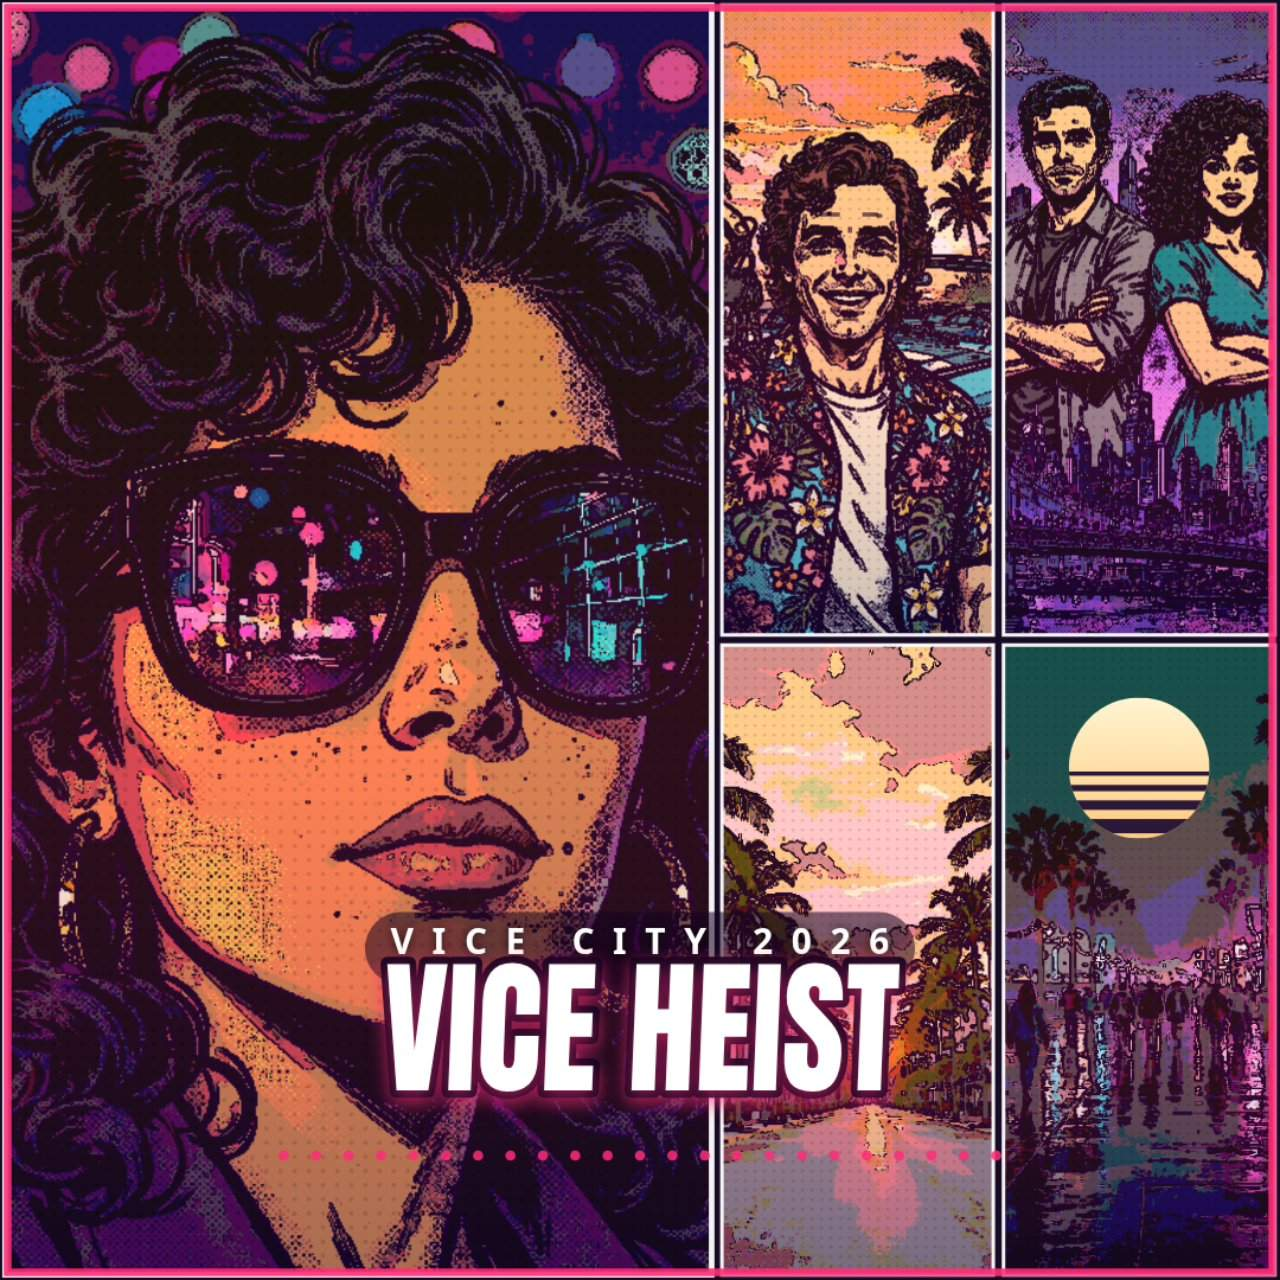
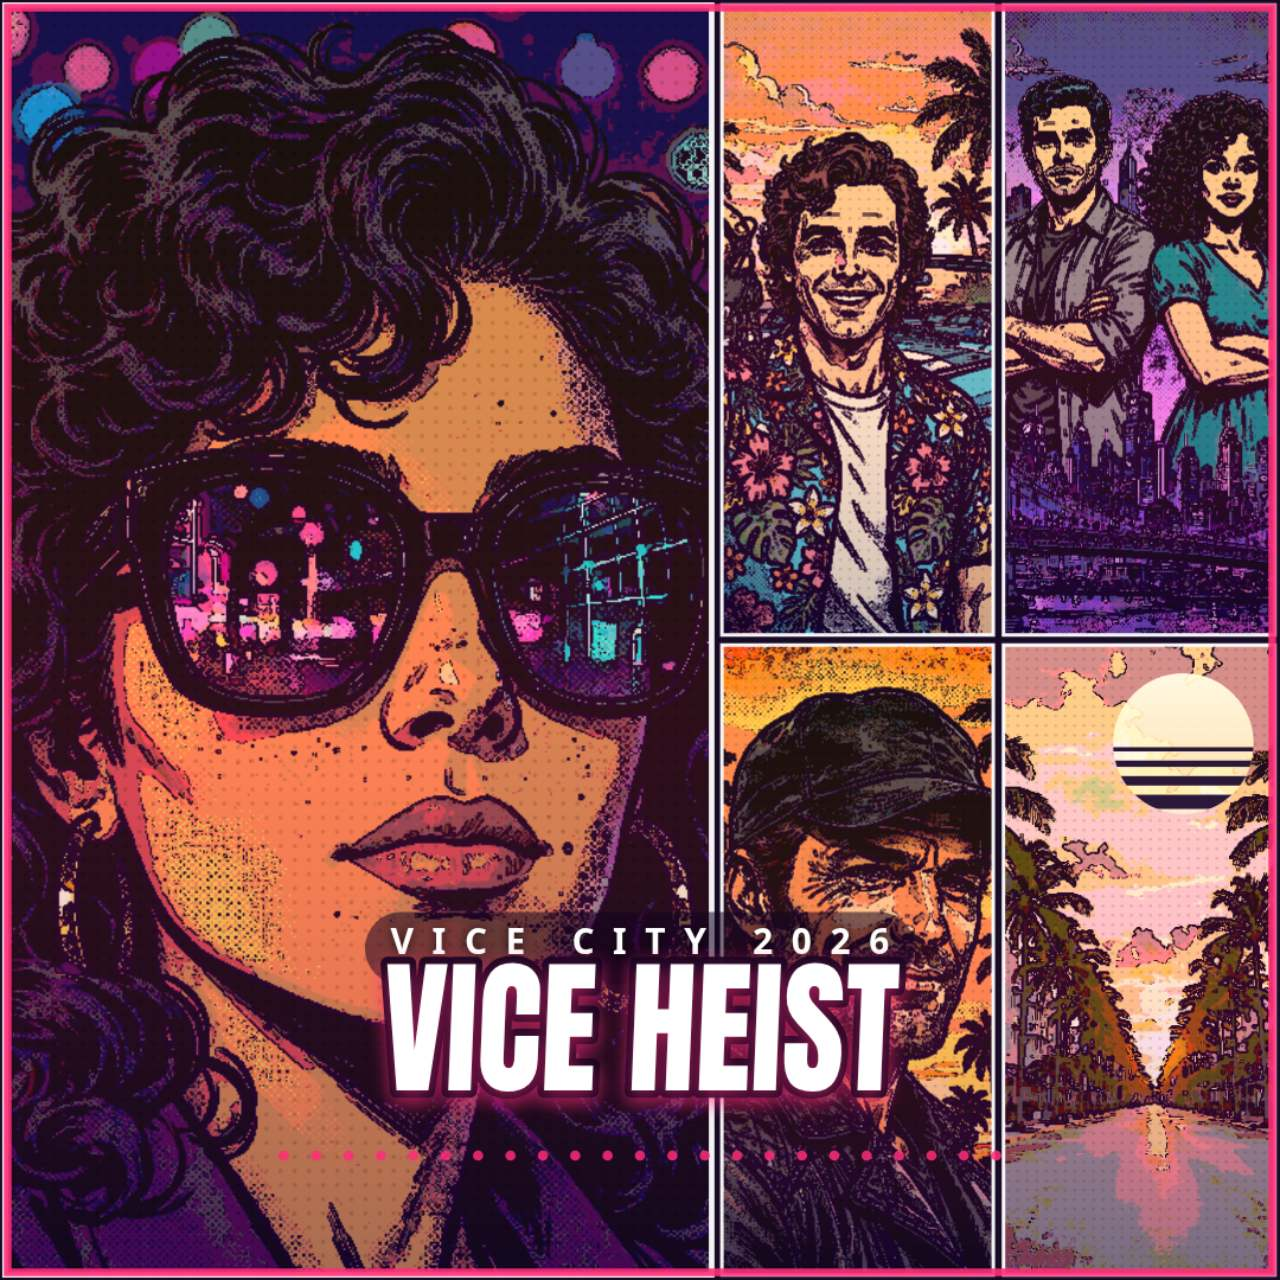
VICE PANELS v5: 2 more comic-ink characters (ink-leather, ink-blonde), character-led nine, scene-aware sun that never covers a face, 13 samples

Changed region(s): [[0.5625, 0.5, 1.0, 1.0]]

diff --git a/app/src/cover.js b/app/src/cover.js
@@ -1,4 +1,4 @@
-// Draws a multi-panel Vice City style cover onto a canvas. v4.
+// Draws a multi-panel Vice City style cover onto a canvas. v5.
 // Own design: seven panel layouts (incl. a Character Hero with one big
 // character panel and a 3x3 nine-panel grid), eight colour grades (incl. a
 // gradient-map Heatwave, a Poster Ink comic shader, a split-tone grade and a
@@ -7,8 +7,11 @@
 // halftone title dots and a condensed poster-block title in the bundled
 // Anton font (SIL OFL, app/fonts/) with auto-fit, and a bold gradient
 // caption. No Rockstar art, logo or font. Panels never repeat a photo
-// while enough distinct photos are loaded: with eleven photos every
-// nine-panel cover shows nine different shots.
+// while enough distinct photos are loaded: with thirteen photos every
+// nine-panel cover shows nine different shots — and the sample order is
+// character-led, so at least six of the nine panels are characters
+// (five comic ink plus the beach couple) and a scene sits where the
+// striped sun can live without covering a face.
 
 export const GRADES = {
   sunset: { name: 'Vice Sunset', filter: 'saturate(1.25) contrast(1.06)', top: 'rgba(255,122,26,0.10)', mid: 'rgba(255,45,120,0.28)', low: 'rgba(120,10,90,0.42)', sun: '#ffd166', sunCore: '#fff3c4', frame: '#ff5da2' },
@@ -192,28 +195,36 @@ function drawPhotoInPanel(ctx, photo, px, py, pw, ph, slant, adjust, grade) {
   ctx.restore();
 }
 
-function drawSun(ctx, w, h, grade, layout) {
+// Names of the sample photos that are scenes (sky, streets, sea), as
+// opposed to character portraits. A panel counts as a scene panel only if
+// its photo's file name is one of these: a user's own upload has an
+// unknown name and is treated as a face until proven otherwise.
+const SCENE_NAMES = new Set(['sunset-boulevard', 'neon-boardwalk', 'skyline-night', 'classic-car', 'marina-dawn', 'pier', 'boulevard']);
+
+function drawSun(ctx, w, h, grade, shapes, ordered) {
   // Retro striped sun: a gradient disc with horizontal gaps cut out of its
-  // lower half. Where it goes depends on the layout: the character portraits
-  // are face-centred and can fill a whole panel, so a fixed corner kept
-  // landing on a face (top-right covered the duo's faces, top-left covered
-  // the neon queen's eye in the nine-panel). Each position below sits in
-  // the corner of a panel that holds a scene photo in the sample set:
-  // charhero/quad/angled5 use the bottom-right scene panel's top-right
-  // corner, nine uses the skyline panel's top-right corner, hero/split use
-  // the top-left corner of the wide top panel (face centred, corner is
-  // sky). Trio has a face in every panel, so it gets no sun at all.
-  const spots = {
-    charhero: [0.89, 0.60],
-    nine: [0.89, 0.39],
-    quad: [0.89, 0.60],
-    angled5: [0.89, 0.60],
-    hero: [0.11, 0.10],
-    split: [0.89, 0.10],
-  };
-  const spot = spots[layout];
-  if (!spot) return;
-  const cx = w * spot[0], cy = h * spot[1], r = h * 0.055;
+  // lower half. Where it goes is decided from the photos actually on the
+  // cover, never from a fixed corner: fixed corners kept landing on faces
+  // once the sample order became character-led — the nine-panel's
+  // top-right panel is a beach portrait now, and Character Hero's last
+  // small panel is one too, so both old spots put the sun on a man's
+  // face. The sun now sits in the top-right corner of the topmost scene
+  // panel (rightmost on a tie), in sky, never on a face; a cover whose
+  // panels are all portraits simply has no sun.
+  const gutter = Math.max(4, w * 0.008);
+  let best = null;
+  shapes.forEach((s, i) => {
+    const name = (ordered[i]?.name || '').replace(/\.(jpe?g|png)$/i, '');
+    if (!SCENE_NAMES.has(name)) return;
+    const score = s.y * 100 - s.x; // topmost wins, rightmost breaks ties
+    if (!best || score < best.score) best = { s, score };
+  });
+  if (!best) return;
+  const { s } = best;
+  const px = s.x * w + gutter / 2, py = s.y * h + gutter / 2;
+  const pw = s.w * w - gutter;
+  const r = h * 0.055;
+  const cx = px + pw - r * 1.3, cy = py + r * 1.4;
   ctx.save();
   ctx.globalCompositeOperation = 'screen';
   ctx.beginPath();
@@ -363,26 +374,28 @@ export function drawCover(canvas, state, W, H) {
 // file name with its ink/neon prefix and keys/skyline suffix stripped, and
 // a user's own upload keys on its full file name. The Character Hero's big
 // panel wants a portrait (a face); its last small panel wants a landscape
-// scene, so the striped sun sitting in that panel's corner has sky, never
-// a face. The Hero's wide top panel wants a landscape shot — a portrait in
+// shot. The items returned carry their file names too, so drawSun can tell
+// a scene panel from a character panel — only a scene panel ever gets the
+// sun. The Hero's wide top panel wants a landscape shot — a portrait in
 // a wide slot crops to a nose-and-sunglasses close-up.
 function orderPhotos(photos, names, layout) {
   const n = panelShapes(layout).length;
+  const baseOf = (i) => (names?.[i] || '').replace(/\.jpe?g$/i, '').replace(/\.png$/i, '');
   const keyOf = (i) => {
-    const base = (names?.[i] || '').replace(/\.jpe?g$/i, '').replace(/\.png$/i, '');
+    const base = baseOf(i);
     if (!base) return `photo${i}`;
     return base.replace(/^(ink|neon)-/, '').replace(/-(keys|skyline)$/, '');
   };
   const items = photos
-    .map((p, i) => (p ? { p, key: keyOf(i), portrait: p.naturalWidth < p.naturalHeight } : null))
+    .map((p, i) => (p ? { p, name: baseOf(i), key: keyOf(i), portrait: p.naturalWidth < p.naturalHeight } : null))
     .filter(Boolean);
-  const all = items.map((x) => x.p);
+  const all = items;
   const used = new Set();
   const take = (pred) => {
     const it = items.find((x) => !used.has(x.key) && pred(x));
     if (!it) return null;
     used.add(it.key);
-    return it.p;
+    return it;
   };
   const out = [];
   if (layout === 'charhero') {
@@ -417,10 +430,10 @@ function orderPhotos(photos, names, layout) {
     const ph = s.h * h - gutter;
     // Enough distinct photos: every panel shows a different one, so a
     // nine-panel cover never repeats a shot. Otherwise panels cycle.
-    const pic = ordered.length ? ordered[i % ordered.length] : null;
+    const pic = ordered.length ? ordered[i % ordered.length]?.p : null;
     drawPhotoInPanel(ctx, pic, px, py, pw, ph, s.slant * w, (state.panels || [])[i], grade);
   });
-  drawSun(ctx, w, h, grade, layout);
+  drawSun(ctx, w, h, grade, shapes, ordered);
   // Neon outer frame.
   ctx.save();
   ctx.strokeStyle = grade.frame;

diff --git a/app/src/main.js b/app/src/main.js
@@ -13,11 +13,14 @@ const fontReady = (document.fonts
   ? document.fonts.load('100px Anton').catch(() => null)
   : Promise.resolve(null));
 
-// Eleven original sample photos (generated for this entry): the three comic
+// Thirteen original sample photos (generated for this entry): the five comic
 // illustration characters first — the Character Hero panel always shows the
 // first one — then the three photo characters, then the five scene shots,
-// plus the two kit ones on a separate button.
-export const NEW_SAMPLES = ['ink-queen', 'ink-hawaii', 'ink-duo', 'neon-queen', 'hawaii-keys', 'sunset-boulevard', 'neon-boardwalk', 'skyline-night', 'beach-couple', 'classic-car', 'marina-dawn'];
+// plus the two kit ones on a separate button. The nine-panel grid is
+// character-led: at least six of its nine panels are characters, and a
+// scene (sunset boulevard) sits in the middle-right panel, where the
+// striped sun has sky to live in instead of a face.
+export const NEW_SAMPLES = ['ink-queen', 'ink-hawaii', 'ink-duo', 'ink-leather', 'ink-blonde', 'neon-queen', 'hawaii-keys', 'sunset-boulevard', 'beach-couple', 'neon-boardwalk', 'skyline-night', 'classic-car', 'marina-dawn'];
 
 const state = {
   layout: 'charhero',
@@ -27,8 +30,8 @@ const state = {
   tagline: 'VICE CITY · 2026',
   capSize: 100,
   capY: 82,
-  photos: Array(11).fill(null),
-  photoNames: Array(11).fill(''),
+  photos: Array(13).fill(null),
+  photoNames: Array(13).fill(''),
   panels: Array.from({ length: 9 }, () => ({ zoom: 1, dx: 0, dy: 0 })),
 };
 
@@ -111,13 +114,13 @@ document.getElementById('sampleNew').addEventListener('click', async () => {
   const { loaded, namesOut } = await loadSamples(NEW_SAMPLES);
   state.photos = loaded;
   state.photoNames = namesOut;
-  status.textContent = '11 sample photos loaded: 6 characters (3 comic ink + 3 photo) + 5 scenes.';
+  status.textContent = '13 sample photos loaded: 8 characters (5 comic ink + 3 photo) + 5 scenes.';
   redraw();
 });
 document.getElementById('sampleKit').addEventListener('click', async () => {
   const { loaded, namesOut } = await loadSamples(['pier', 'boulevard']);
-  state.photos = [...loaded, ...Array(9).fill(null)];
-  state.photoNames = [...namesOut, ...Array(9).fill('')];
+  state.photos = [...loaded, ...Array(11).fill(null)];
+  state.photoNames = [...namesOut, ...Array(11).fill('')];
   status.textContent = 'Kit sample photos loaded.';
   redraw();
 });
@@ -178,7 +181,7 @@ const shot = new URLSearchParams(location.search).get('shot');
 if (shot) {
   runShot(shot, new URLSearchParams(location.search), state, loadImage, redraw, fontReady);
 } else {
-  // Default scene: the eleven samples, comic characters first, so the first
+  // Default scene: the thirteen samples, comic characters first, so the first
   // paint already shows the Character Hero cover instead of empty panels.
   // Wait for the font so the first paint already uses Anton, not the fallback.
   Promise.all([fontReady, loadSamples(NEW_SAMPLES)]).then(([, { loaded, namesOut }]) => {

diff --git a/app/src/shots.js b/app/src/shots.js
@@ -1,11 +1,14 @@
 // Fixed scenes for screenshots: ?shot=editor shows the page with sample
 // photos loaded; ?shot=cover shows the cover alone. Extra query params:
 // layout, grade, titleStyle, size (WxH), photos (comma-separated sample
-// names, default the eleven v4 samples, comic characters first), caption,
-// tagline. window.__shotReady is set once the scene is painted — after the
-// bundled Anton font is loaded, so the title is measured in the real font.
+// names, default the thirteen v5 samples, comic characters first — the
+// nine-panel grid is character-led: at least six of its nine panels are
+// characters, with a scene in the middle-right panel for the sun),
+// caption, tagline. window.__shotReady is set once the scene is painted —
+// after the bundled Anton font is loaded, so the title is measured in the
+// real font.
 export async function runShot(shot, query, state, loadImage, redraw, fontReady) {
-  const names = (query.get('photos') || 'ink-queen,ink-hawaii,ink-duo,neon-queen,hawaii-keys,sunset-boulevard,neon-boardwalk,skyline-night,beach-couple,classic-car,marina-dawn')
+  const names = (query.get('photos') || 'ink-queen,ink-hawaii,ink-duo,ink-leather,ink-blonde,neon-queen,hawaii-keys,sunset-boulevard,beach-couple,neon-boardwalk,skyline-night,classic-car,marina-dawn')
     .split(',').map((s) => s.trim()).filter(Boolean);
   state.layout = query.get('layout') ?? 'charhero';
   state.grade = query.get('grade') ?? 'comic';

diff --git a/main.ts b/main.ts
@@ -1,4 +1,4 @@
-// VICE PANELS v4 — a gta6-cover-art-01 entry (Node 22, standard library only).
+// VICE PANELS v5 — a gta6-cover-art-01 entry (Node 22, standard library only).
 // The program hands the app in: it copies app/ and screenshots/ from beside
 // this file to /output and writes /output/dossier.json with the vendored
 // make.fun library, so the judge reads the app's source and screenshots.
@@ -10,8 +10,9 @@
 // eight colour grades (incl. a Heatwave gradient-map, a Poster Ink comic
 // halftone shader, a split-tone grade and a Comic Ink grade that posterizes
 // any photo and inks its edges on canvas, turning it into comic art),
-// eleven original sample photos (three comic illustration characters first,
-// then three photo characters, then five scenes), a condensed poster-block
+// thirteen original sample photos (five comic illustration characters first,
+// then three photo characters, then five scenes — the nine-panel grid is
+// character-led), a condensed poster-block
 // title in the bundled Anton font (SIL OFL, app/fonts/) with auto-fit and
 // halftone dots, per-panel zoom/pan/crop, and one-click PNG export in all
 // three post sizes.

diff --git a/serve.ts b/serve.ts
@@ -1,9 +1,10 @@
 // A tiny static server for app/ (Node 22, standard library only), so an entry can be tried
 // locally without a build step: `node serve.ts` serves app/ on http://localhost:8080.
-// v4 note: the app now ships eleven sample photos (three comic illustration
-// characters first, then three photo characters, then five scenes), a Comic
-// Ink grade and a bundled Anton font under app/fonts/; nothing about
-// serving changed — .ttf is already in the MIME table below.
+// v5 note: the app now ships thirteen sample photos (five comic illustration
+// characters first, then three photo characters, then five scenes — the
+// nine-panel grid is character-led), a Comic Ink grade and a bundled Anton
+// font under app/fonts/; nothing about serving changed — .ttf is already in
+// the MIME table below.
 // It sends the MIME types an offline web app needs, refuses any path outside app/, and otherwise
 // does nothing clever: this is a development convenience, not a web server for the internet.
 // Screenshots are taken against it with headless Chrome, e.g.:

diff --git a/app/index.html b/app/index.html
@@ -27,11 +27,11 @@
         <span class="thumb"><img id="thumb2" alt=""><em id="slotname2">No photo loaded yet</em></span>
       </div>
       <div class="row">
-        <button id="sampleNew" type="button">Load 11 samples</button>
+        <button id="sampleNew" type="button">Load 13 samples</button>
         <button id="sampleKit" type="button">Kit samples</button>
       </div>
       <p class="hint" id="loadedCount">No photos loaded yet — load the samples or your own photos.</p>
-      <p class="hint">Panels show different photos while you have enough loaded: load eleven and every panel of the 3 × 3 grid shows a different shot; with fewer photos they cycle. Character Hero puts your first photo big.</p>
+      <p class="hint">Panels show different photos while you have enough loaded: load thirteen and every panel of the 3 × 3 grid shows a different shot — six of the nine panels are characters, so the grid is character-led; with fewer photos they cycle. Character Hero puts your first photo big.</p>
     </fieldset>
 
     <fieldset>

diff --git a/app/style.css b/app/style.css
@@ -1,7 +1,10 @@
 /* Poster font: Anton, bundled under fonts/ under the SIL Open Font
    License (fonts/OFL.txt) — the competition rules name the SIL OFL as a
    shippable font license, and the kit's own house apps letter in Anton.
-   Loaded from a local file, never the network. */
+   Loaded from a local file, never the network.
+   v5: thirteen sample photos now, five of them comic-ink characters, so
+   the nine-panel grid is character-led — the editor and the canvas both
+   show characters first. */
 @font-face {
   font-family: 'Anton';
   src: url('./fonts/Anton-Regular.ttf') format('truetype');

diff --git a/README.md b/README.md
@@ -6,7 +6,7 @@
 
 VICE PANELS turns your photos into multi-panel Vice City style poster covers — seven layouts (Character Hero with one big character panel, Hero, Trio, Quad, Split, an angled 5-panel grid, a 3×3 nine-panel grid that never repeats a photo while nine are loaded), eight colour grades (Vice Sunset, Neon Nights, Golden Coast, Noir Teal, a Heatwave gradient-map, a Poster Ink comic halftone shader, Split Tone, and Comic Ink — a real canvas shader that posterizes any photo and inks its edges, turning it into comic art), per-panel crop and zoom, a condensed poster-block title in the bundled Anton font that auto-fits the cover with halftone dots and a striped retro sun — and exports them as PNG in square, portrait and wide post sizes, one at a time or all three at once, all offline in the browser.
 
-Eleven original sample photos ship with the app — three comic illustration characters (ink queen, ink Hawaii, ink duo), three photo characters (neon queen, Hawaii keys, beach couple), and five scenes (sunset boulevard, neon boardwalk, night skyline, classic car, marina dawn) — so the first cover already shows a character-led set; load your own photos from disk instead and Character Hero puts your first photo big while every panel shows a different shot. The upload slots always show a thumbnail and the name of the photo loaded in them.
+Thirteen original sample photos ship with the app — five comic illustration characters (ink queen, ink Hawaii, ink duo, ink leather, ink blonde), three photo characters (neon queen, Hawaii keys, beach couple), and five scenes (sunset boulevard, neon boardwalk, night skyline, classic car, marina dawn) — so the first cover already shows a character-led set, and six of the 3 × 3 grid's nine panels are characters, with a scene in the middle-right panel where the striped sun has sky to live in; load your own photos from disk instead and Character Hero puts your first photo big while every panel shows a different shot. The upload slots always show a thumbnail and the name of the photo loaded in them.
 
 The title font is Anton, bundled under `app/fonts/` under the SIL Open Font License (`app/fonts/OFL.txt`); the competition rules name the SIL OFL as a license that allows shipping a font, and the kit's own house apps letter in Anton. Everything in the app — art, lettering, fonts — is original; no Rockstar Games logo, artwork or font is used.
 
